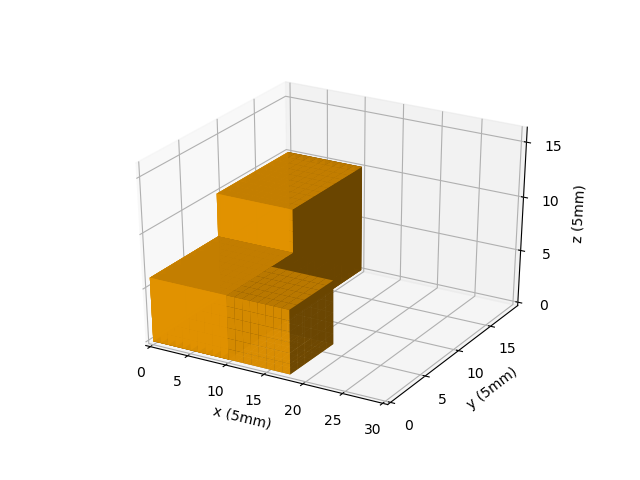
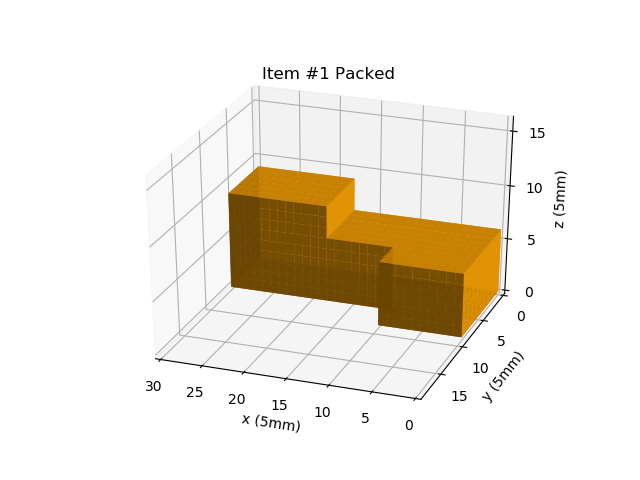
change the view angle of visualization

diff --git a/visualize.py b/visualize.py
@@ -40,11 +40,9 @@ def visualize(seq, container_size, x_pos, y_pos, z_pos, a_len, b_len, c_len, shr
     filled = np.zeros(tuple(container_size), dtype=bool)
     colors = np.empty(filled.shape, dtype=object)
     for i in range(len(seq)):
-        # x_points += [x_pos[seq[i]]] * 4 + [x_pos[seq[i]] + a_len[seq[i]]] * 4
-        # y_points += [y_pos[seq[i]], y_pos[seq[i]] + b_len[seq[i]]] * 4
-        # z_points += [z_pos[seq[i]], z_pos[seq[i]], z_pos[seq[i]] + c_len[seq[i]], z_pos[seq[i]] + c_len[seq[i]]] * 2
         fig = plt.figure()
         ax = fig.gca(projection='3d')
+        ax.view_init(30, 110)
         ax.set_xlabel('x (%dmm)'%shrink_ratio)
         ax.set_ylabel('y (%dmm)'%shrink_ratio)
         ax.set_zlabel('z (%dmm)'%shrink_ratio)
@@ -57,7 +55,7 @@ def visualize(seq, container_size, x_pos, y_pos, z_pos, a_len, b_len, c_len, shr
         filled[x_pos[seq[i]]:x_pos[seq[i]] + a_len[seq[i]], y_pos[seq[i]]:y_pos[seq[i]] + b_len[seq[i]], z_pos[seq[i]]:z_pos[seq[i]] + c_len[seq[i]]] = True
         colors[x_pos[seq[i]]:x_pos[seq[i]] + a_len[seq[i]], y_pos[seq[i]]:y_pos[seq[i]] + b_len[seq[i]], z_pos[seq[i]]:z_pos[seq[i]] + c_len[seq[i]]] = color_packed # color_new
         ax.voxels(filled, facecolors=colors, alpha=0.9)
-        # ax.scatter3D(x_points, y_points, z_points, c=z_points, cmap='hsv')
+        
         filenames.append('visualization/%d.png'%i)
         plt.title('Item #%d Packed'%seq[i])
         plt.savefig(filenames[-1])
